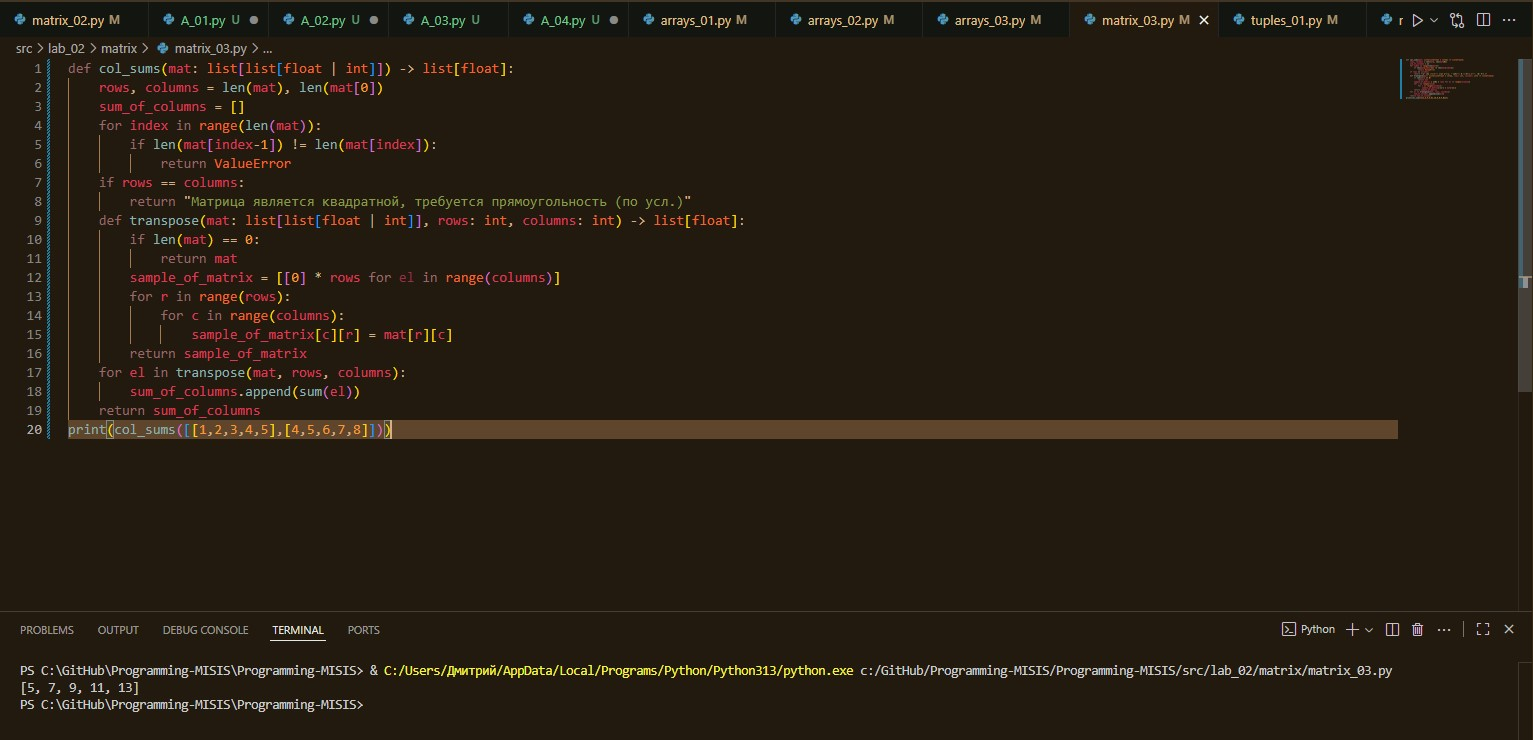
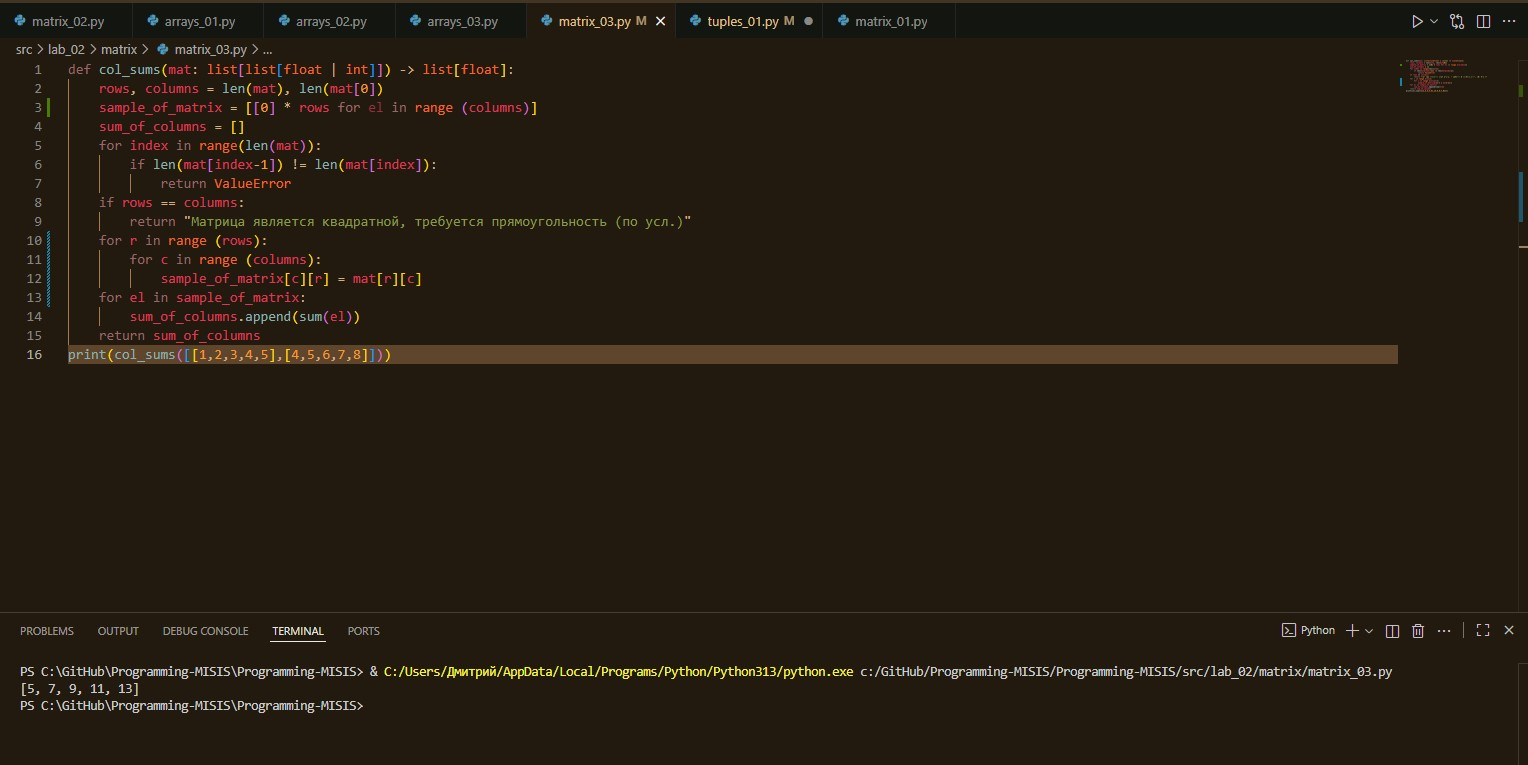
fix

diff --git a/src/lab_02/tuples/tuples_01.py b/src/lab_02/tuples/tuples_01.py
@@ -1,14 +1,18 @@
-def format_record(rec: tuple[str, str, float]) -> str:
+def format_record(rec: tuple[str,str,float]) -> str:
     initials = ''
-    fio, group, gpa = rec[0].strip().split(), rec[1], rec[2]
-    if len(fio) > 3 or len(fio) < 2:
-        return ValueError
-    if not isinstance(gpa, float):
+    if not isinstance(rec, tuple):
         return TypeError
+    if not isinstance(rec[0], str) or not isinstance(rec[1], str) or not isinstance(rec[2], float):
+        return TypeError
+    if len(rec[0].strip().split()) < 2 or len(rec[0].strip().split()) > 3:
+        return ValueError
+    if len(rec[1]) == 0:
+        return TypeError
+    fio, group, gpa = rec[0].strip().split(), rec[1].strip(), rec[2]
     for index_01 in range(len(fio)):
         fio[index_01] = fio[index_01].capitalize()
         for el in fio[index_01]:
             if el.isupper():
                 initials += el + "."
-    return f"{fio[0]} {initials[2:]}, гр. {group}, GPA {gpa:.2f}"
-print(format_record(("     сидорова   анна   сергеевна    ", "BIVT-25", 4.6)))
+    return f"{fio[0]} {initials[2:]}, гр. {group}, GPA: {gpa:.2f}"
+print(format_record(("    петров    пётр      павлович     ", "IKBO-12", 3.999)))

diff --git a/src/lab_02/matrix/matrix_03.py b/src/lab_02/matrix/matrix_03.py
@@ -1,20 +1,16 @@
 def col_sums(mat: list[list[float | int]]) -> list[float]:
     rows, columns = len(mat), len(mat[0])
+    sample_of_matrix = [[0] * rows for el in range (columns)]
     sum_of_columns = []
     for index in range(len(mat)):
         if len(mat[index-1]) != len(mat[index]):
             return ValueError
     if rows == columns:
         return "Матрица является квадратной, требуется прямоугольность (по усл.)"
-    def transpose(mat: list[list[float | int]], rows: int, columns: int) -> list[float]:
-        if len(mat) == 0:
-            return mat
-        sample_of_matrix = [[0] * rows for el in range(columns)]
-        for r in range(rows):
-            for c in range(columns):
-                sample_of_matrix[c][r] = mat[r][c]
-        return sample_of_matrix
-    for el in transpose(mat, rows, columns):
+    for r in range (rows):
+        for c in range (columns):
+            sample_of_matrix[c][r] = mat[r][c]
+    for el in sample_of_matrix:
         sum_of_columns.append(sum(el))
     return sum_of_columns
 print(col_sums([[1,2,3,4,5],[4,5,6,7,8]]))
